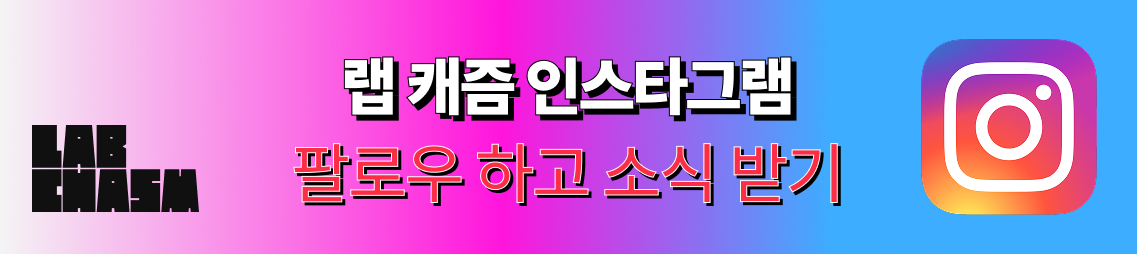
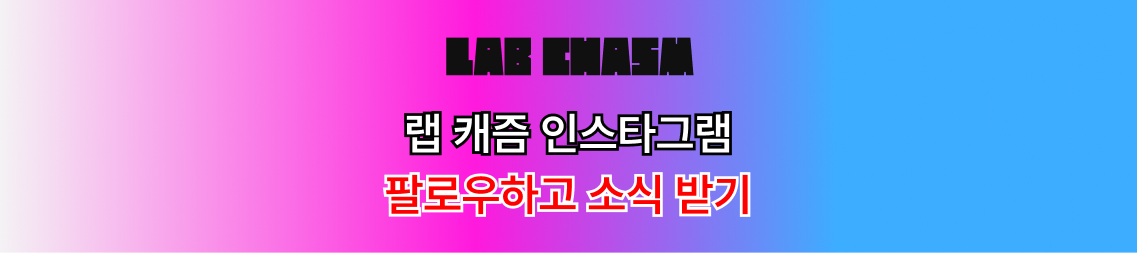
랩캐즘 로고 수정

diff --git a/src/app/musicconv/MusicConvClient.tsx b/src/app/musicconv/MusicConvClient.tsx
@@ -502,16 +502,6 @@ useEffect(() => {
               errMsg={errMsg}
             />
 
-            {/* 배너 */}
-            <a
-              href="https://instagram.com/lab_chasm"
-              target="_blank"
-              rel="noreferrer"
-              className="mx-auto mt-6 block w-full max-w-[680px] overflow-hidden rounded-[14px] shadow-[0_10px_24px_rgba(0,0,0,0.12)]"
-            >
-              <img src={IG_BANNER_IMG} alt="랩 캐즘 인스타그램 팔로우 하고 소식 받기" className="h-[120px] w-full object-cover" />
-            </a>
-
             {/* 팁 */}
             <div className="mt-6 rounded-[16px] border border-[#E5E5E5] bg-white p-5 shadow-[0_6px_18px_rgba(0,0,0,0.06)]">
               <div className="mb-3 flex items-center gap-2">
@@ -535,6 +525,16 @@ useEffect(() => {
                 </li>
               </ul>
             </div>
+
+                        {/* 배너 */}
+                        <a
+              href="https://instagram.com/lab_chasm"
+              target="_blank"
+              rel="noreferrer"
+              className="mx-auto mt-6 block w-full max-w-[680px] overflow-hidden shadow-[0_10px_24px_rgba(0,0,0,0.12)]"
+            >
+              <img src={IG_BANNER_IMG} alt="랩 캐즘 인스타그램 팔로우 하고 소식 받기" className="h-[120px] w-full object-cover" />
+            </a>
           </section>
         )}
 
@@ -573,18 +573,15 @@ useEffect(() => {
     )}
 
     {/* 하단 배너 */}
-    <a
-      href="https://instagram.com/lab_chasm"
-      target="_blank"
-      rel="noreferrer"
-      className="mx-auto mt-6 block w-full max-w-[680px] overflow-hidden rounded-[14px] shadow-[0_10px_24px_rgba(0,0,0,0.12)]"
-    >
-      <img
-        src={IG_BANNER_IMG}
-        alt="랩 캐즘 인스타그램 팔로우 하고 소식 받기"
-        className="h-[120px] w-full object-cover"
-      />
-    </a>
+    <div className="mx-auto mt-6 w-full max-w-[680px] rounded-[14px] shadow-[0_10px_24px_rgba(0,0,0,0.12)] overflow-hidden">
+  <div className="relative w-full" style={{ aspectRatio: "17 / 3" }}>
+    <img
+      src={IG_BANNER_IMG}
+      alt="랩 캐즘 인스타그램 팔로우 하고 소식 받기"
+      className="absolute inset-0 h-full w-full object-contain"
+    />
+  </div>
+</div>
             </section>
         )}
 
@@ -661,7 +658,7 @@ useEffect(() => {
               href="https://instagram.com/lab_chasm"
               target="_blank"
               rel="noreferrer"
-              className="mx-auto mt-8 block w-full max-w-[680px] overflow-hidden rounded-[14px] shadow-[0_10px_24px_rgba(0,0,0,0.12)]"
+              className="mx-auto mt-8 block w-full max-w-[680px] overflow-hidden shadow-[0_10px_24px_rgba(0,0,0,0.12)]"
             >
               <img src={IG_BANNER_IMG} alt="랩 캐즘 인스타그램 팔로우 하고 소식 받기" className="h-[120px] w-full object-cover" />
             </a>
